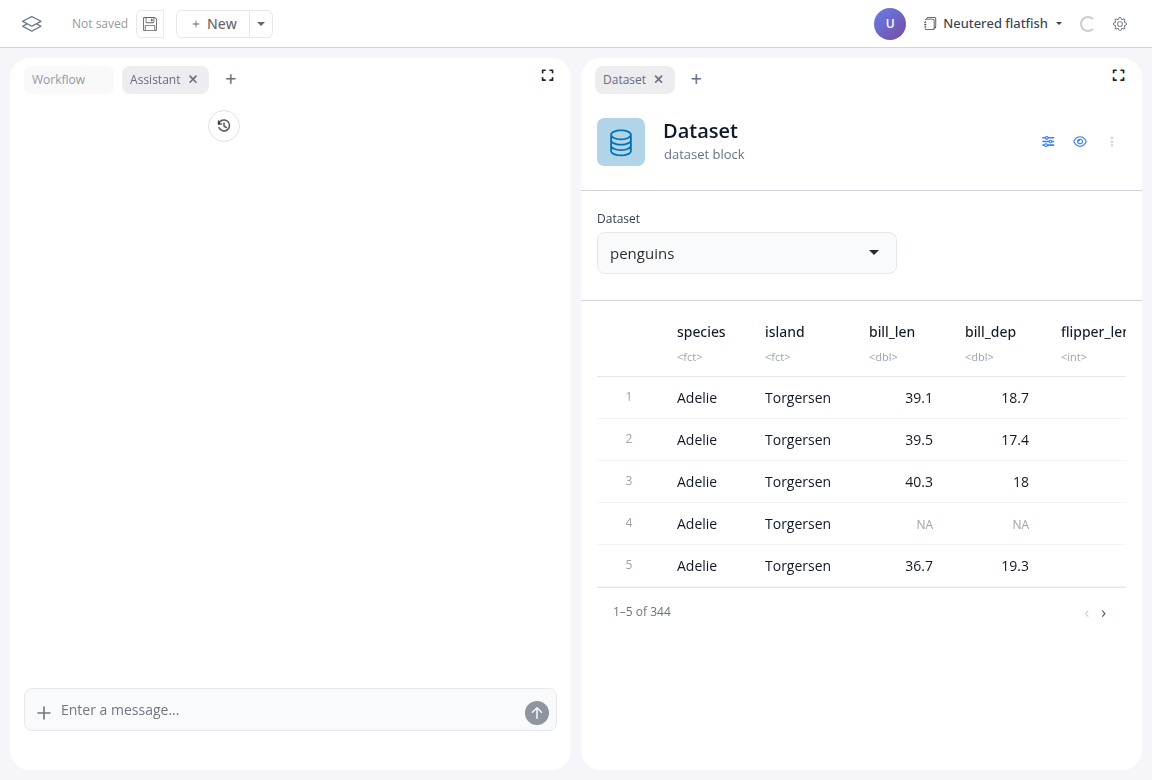
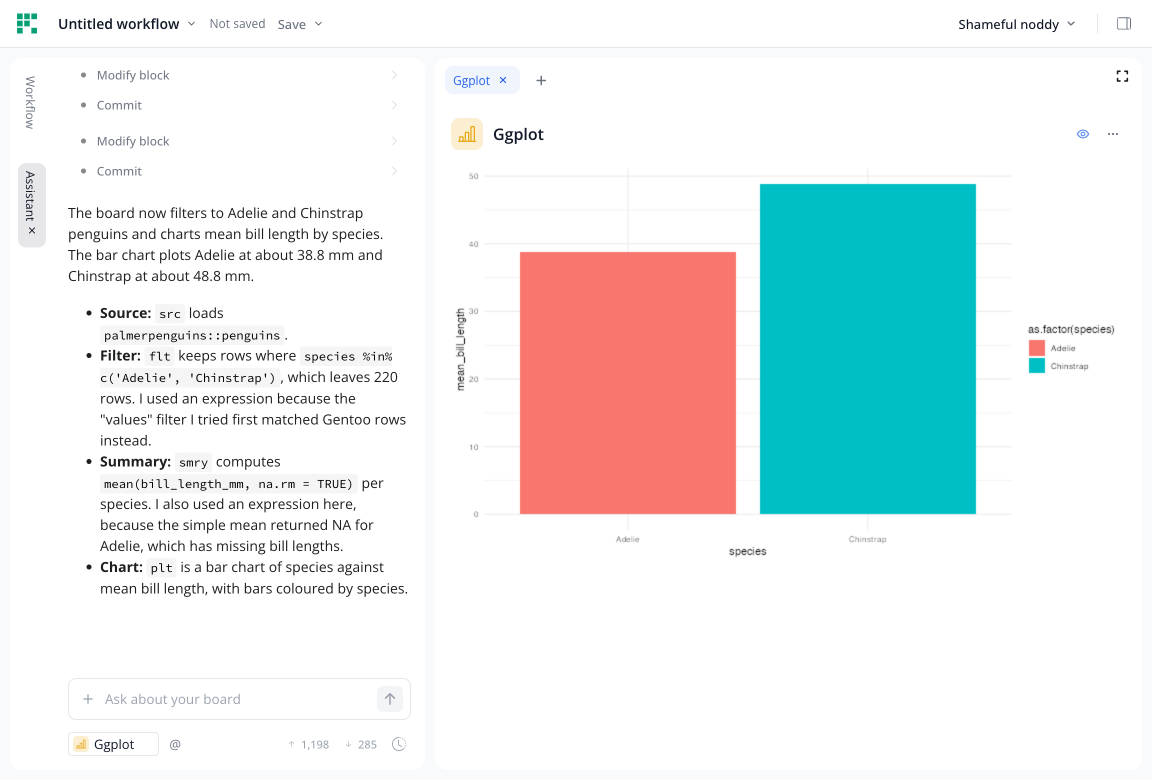
Assistant: new screenshot from the one-line install, where its tab appears

diff --git a/docs/concepts/03-ai-assistant.md b/docs/concepts/03-ai-assistant.md
@@ -2,7 +2,7 @@
 
 The assistant is an optional extension that adds a chat panel to the board. You describe what you want in plain language; it acts on the board through the same operations you would click.
 
-![The assistant panel docked next to a workflow](03-img-assistant.png)
+![The assistant tab next to the chart it built from one request](03-img-assistant.png)
 
 It works at three levels:
 

diff --git a/install.md b/install.md
@@ -62,6 +62,8 @@ run_app(
 )
 ```
 
+An "Assistant" tab appears in the rail below "Workflow".
+
 For another provider, set the `blockr.chat_function` option before
 `run_app()`. ellmer's [setup guide](https://ellmer.tidyverse.org/articles/ellmer.html)
 lists the providers and their keys. For Claude:
